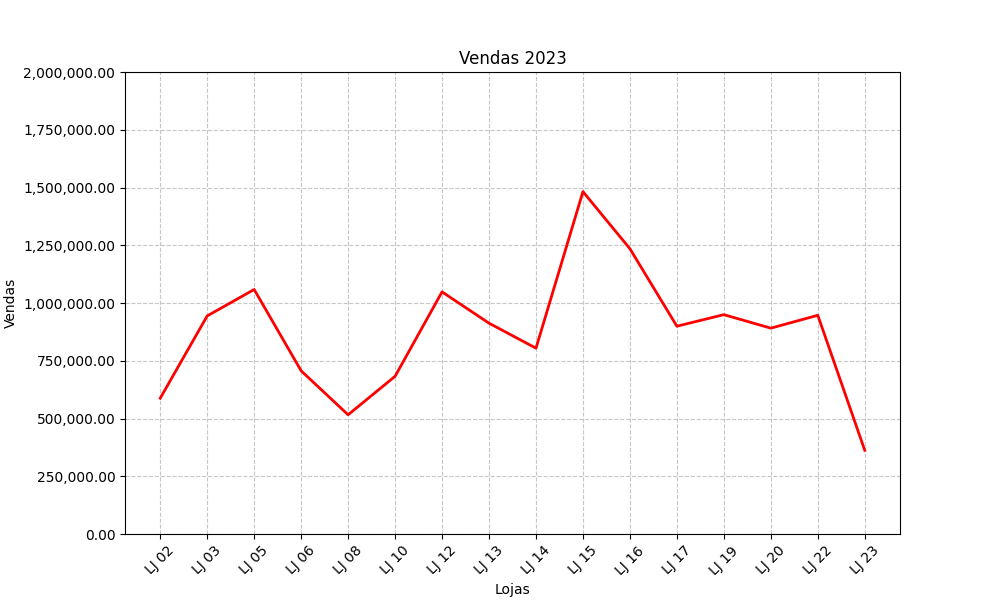
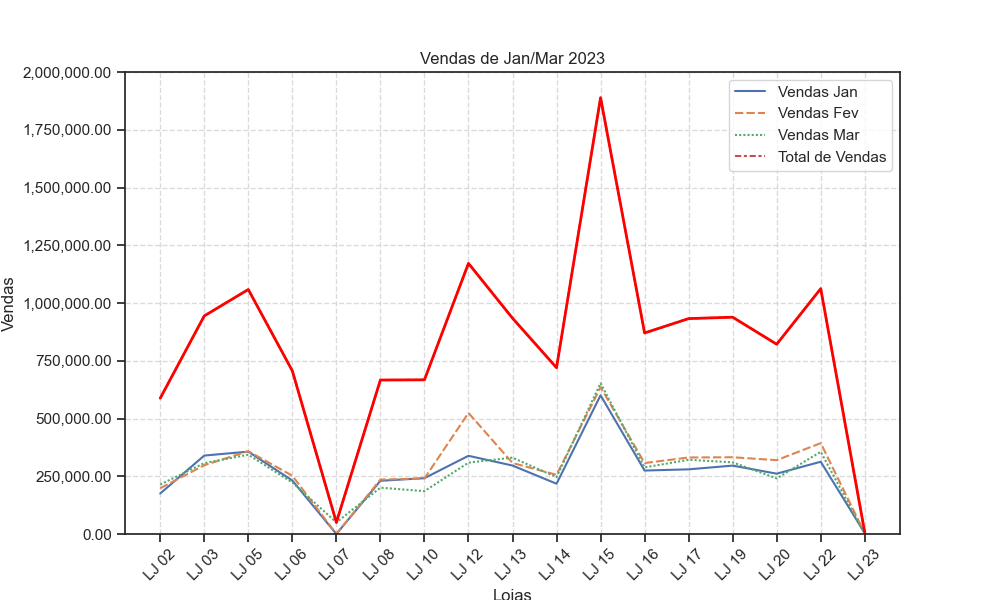
Feito ajustes nos eixos e correções de dados

diff --git a/grafico-linhas-vendas-mes.py b/grafico-linhas-vendas-mes.py
@@ -14,18 +14,25 @@ df_mar = pd.read_excel('vendas_mes.xlsx', sheet_name='Mar')
 df_mar = df_mar.rename(columns={'Unnamed: 0': 'Lojas', 'Vendas': 'Vendas Mar'})
 
 df_vendas = pd.concat([df_jan[['Lojas', 'Vendas Jan']], df_fev[['Vendas Fev']], df_mar[['Vendas Mar']]], axis=1)
-df_vendas = df_vendas.rename(columns={'Vendas Jan': 'Vendas'})
+# df_vendas = df_vendas.rename(columns={'Vendas Jan': 'Vendas'})
 
-df_vendas['Total Vendas'] = df_vendas.sum(axis=1)
+# df_vendas['Total de Vendas'] = df_vendas.sum(axis=1)
+
+df_vendas['Total de Vendas'] = df_vendas.select_dtypes(include=np.number).sum(axis=1)
 
 df_vendas = df_vendas.groupby('Lojas').sum()
 
 display(df_vendas)
 
-graf_linhas = sns.lineplot(data=df_vendas, x="Lojas", y="Total Vendas", color="red", linewidth=2)
+sns.set_theme(style="ticks")
+
+grafico_total = sns.lineplot(data=df_vendas)
+grafico_total.set(title="Total de Vendas", xlabel="Tempo", ylabel="Vendas")
+
+graf_linhas = sns.lineplot(data=df_vendas, x="Lojas", y="Total de Vendas", color="red", linewidth=2)
 fig = plt.gcf()
 fig.set_size_inches(10, 6)
-graf_linhas.set(title="Vendas 2023", xlabel="Lojas", ylabel="Vendas")
+graf_linhas.set(title="Vendas de Jan/Mar 2023", xlabel="Lojas", ylabel="Vendas")
 graf_linhas.set(ylim=(0, 2000000))
 graf_linhas.tick_params(axis='x', labelrotation=45)
 graf_linhas.grid(linestyle="--", alpha=0.7)
@@ -34,4 +41,5 @@ graf_linhas.yaxis.set_major_formatter(mtick.FuncFormatter(lambda x, _: '{:,.2f}'
 fig = graf_linhas.get_figure()
 fig.savefig("grafico_vendas_mes.png")
 
+plt.legend()
 plt.show()
